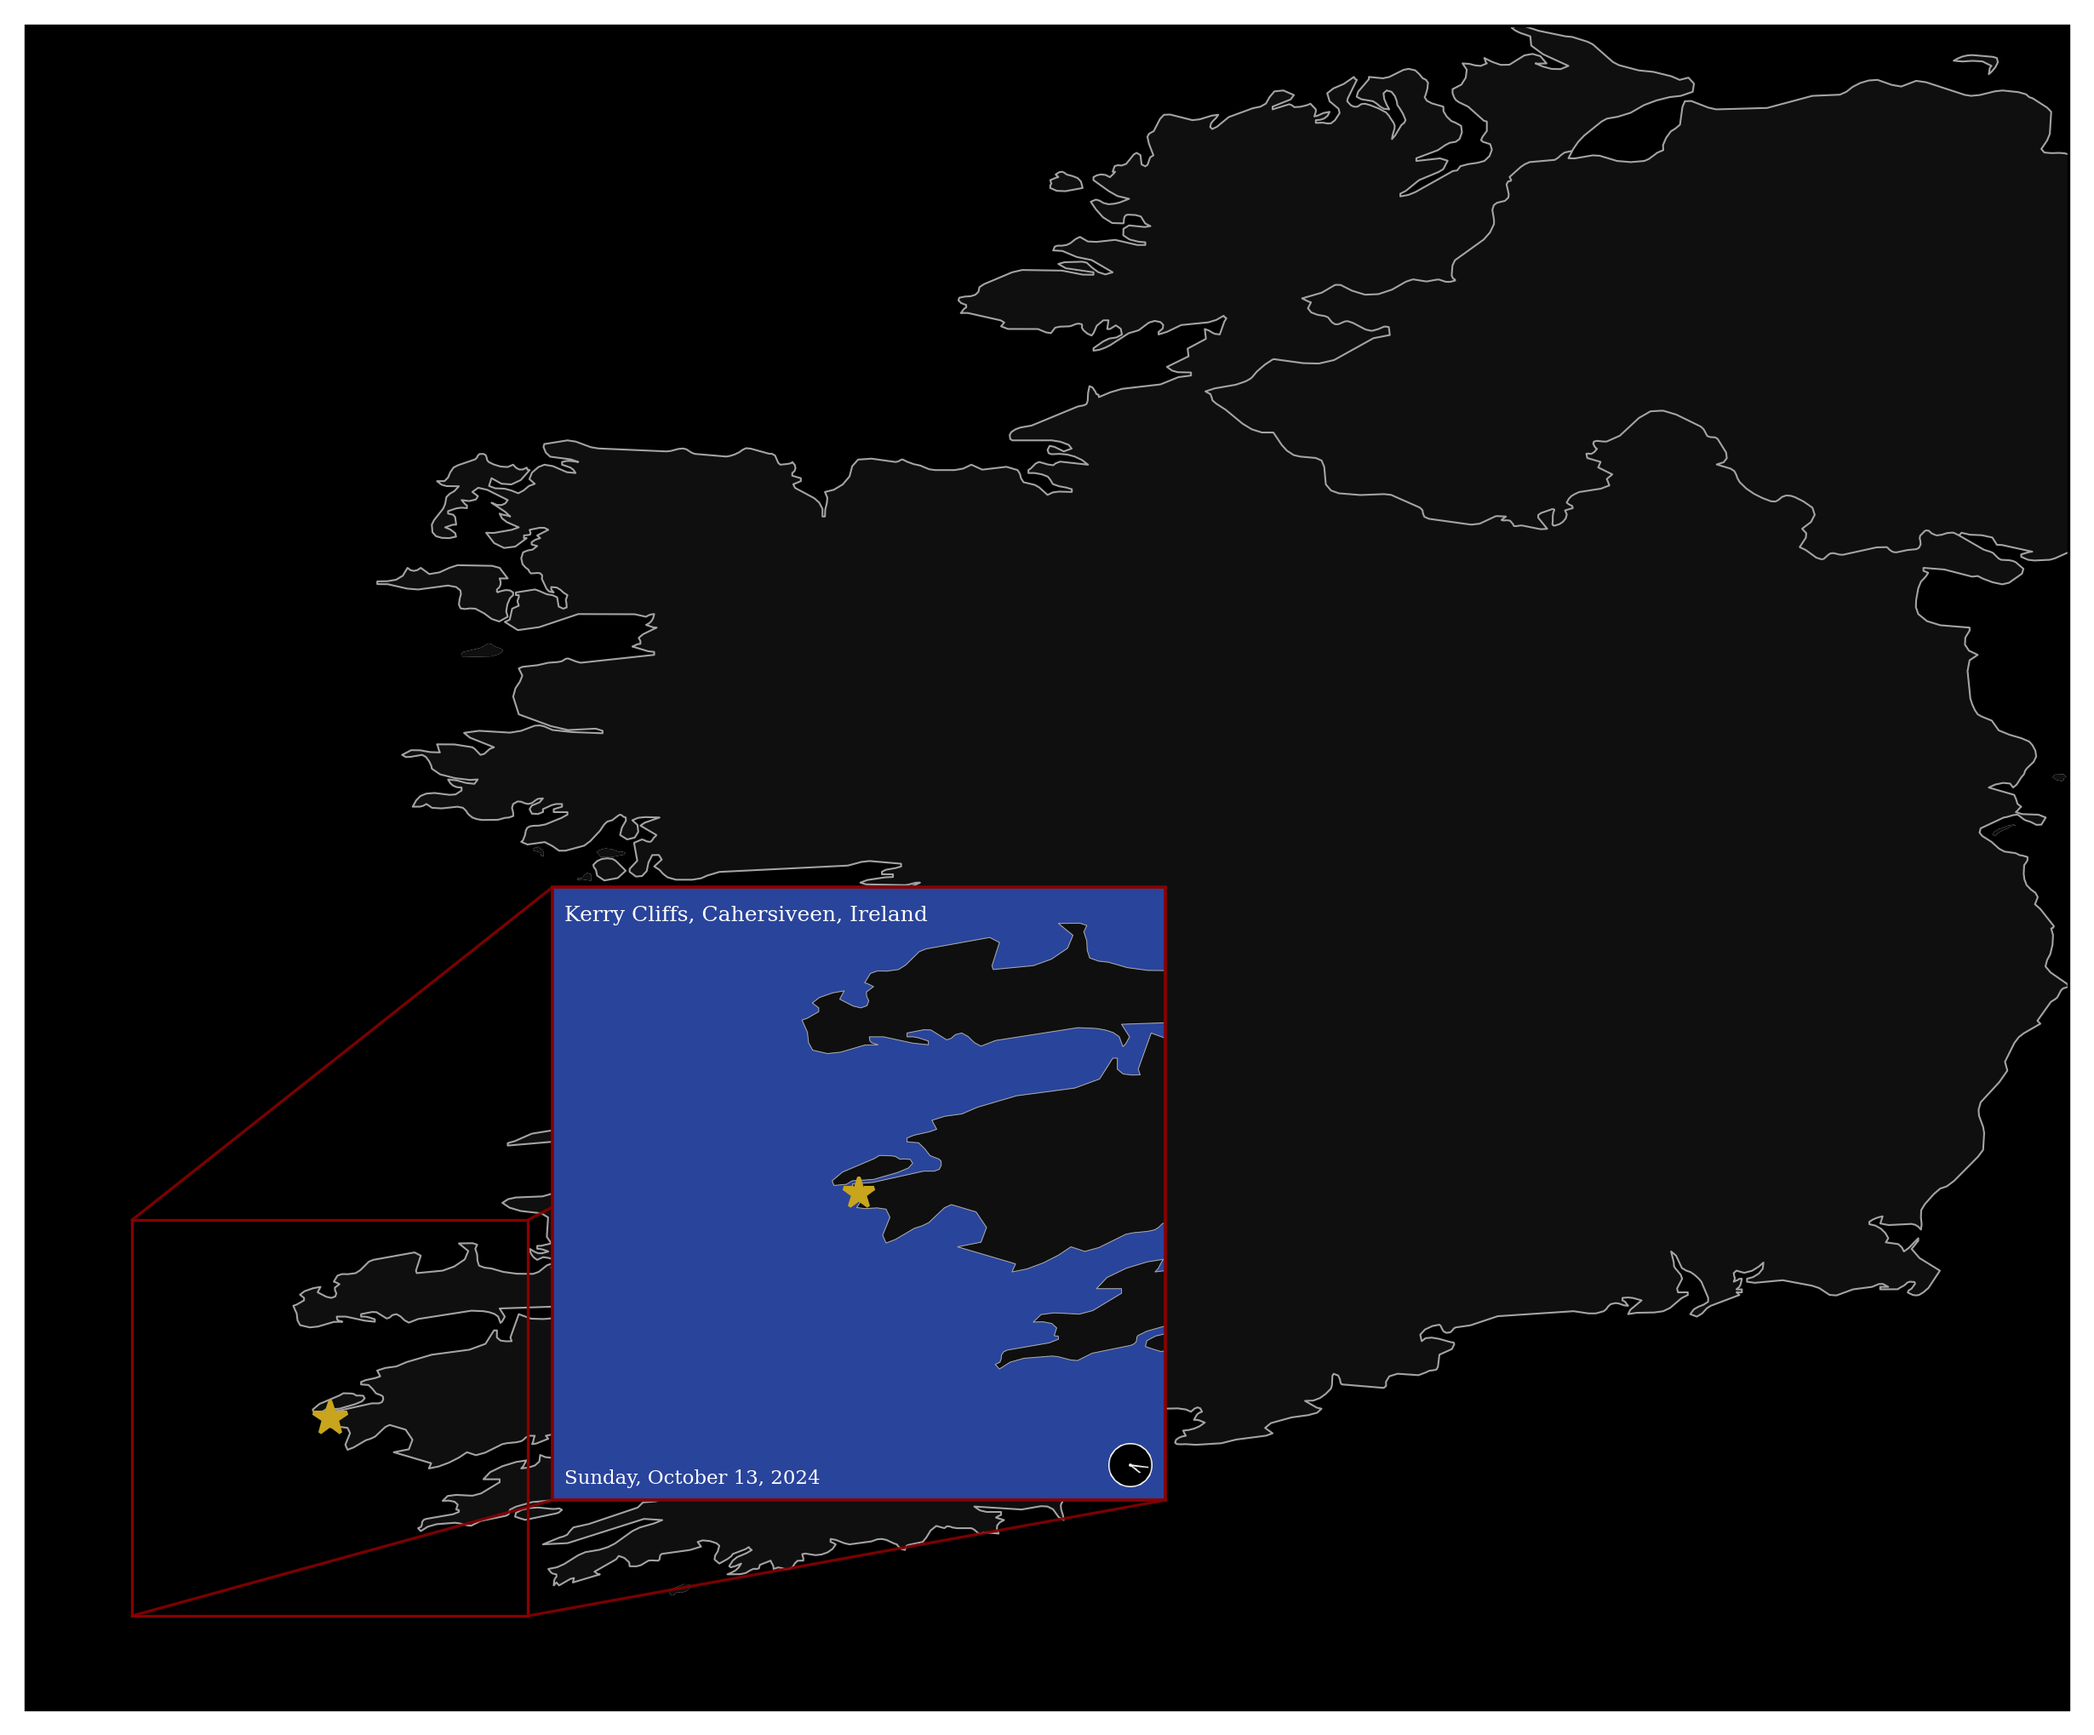
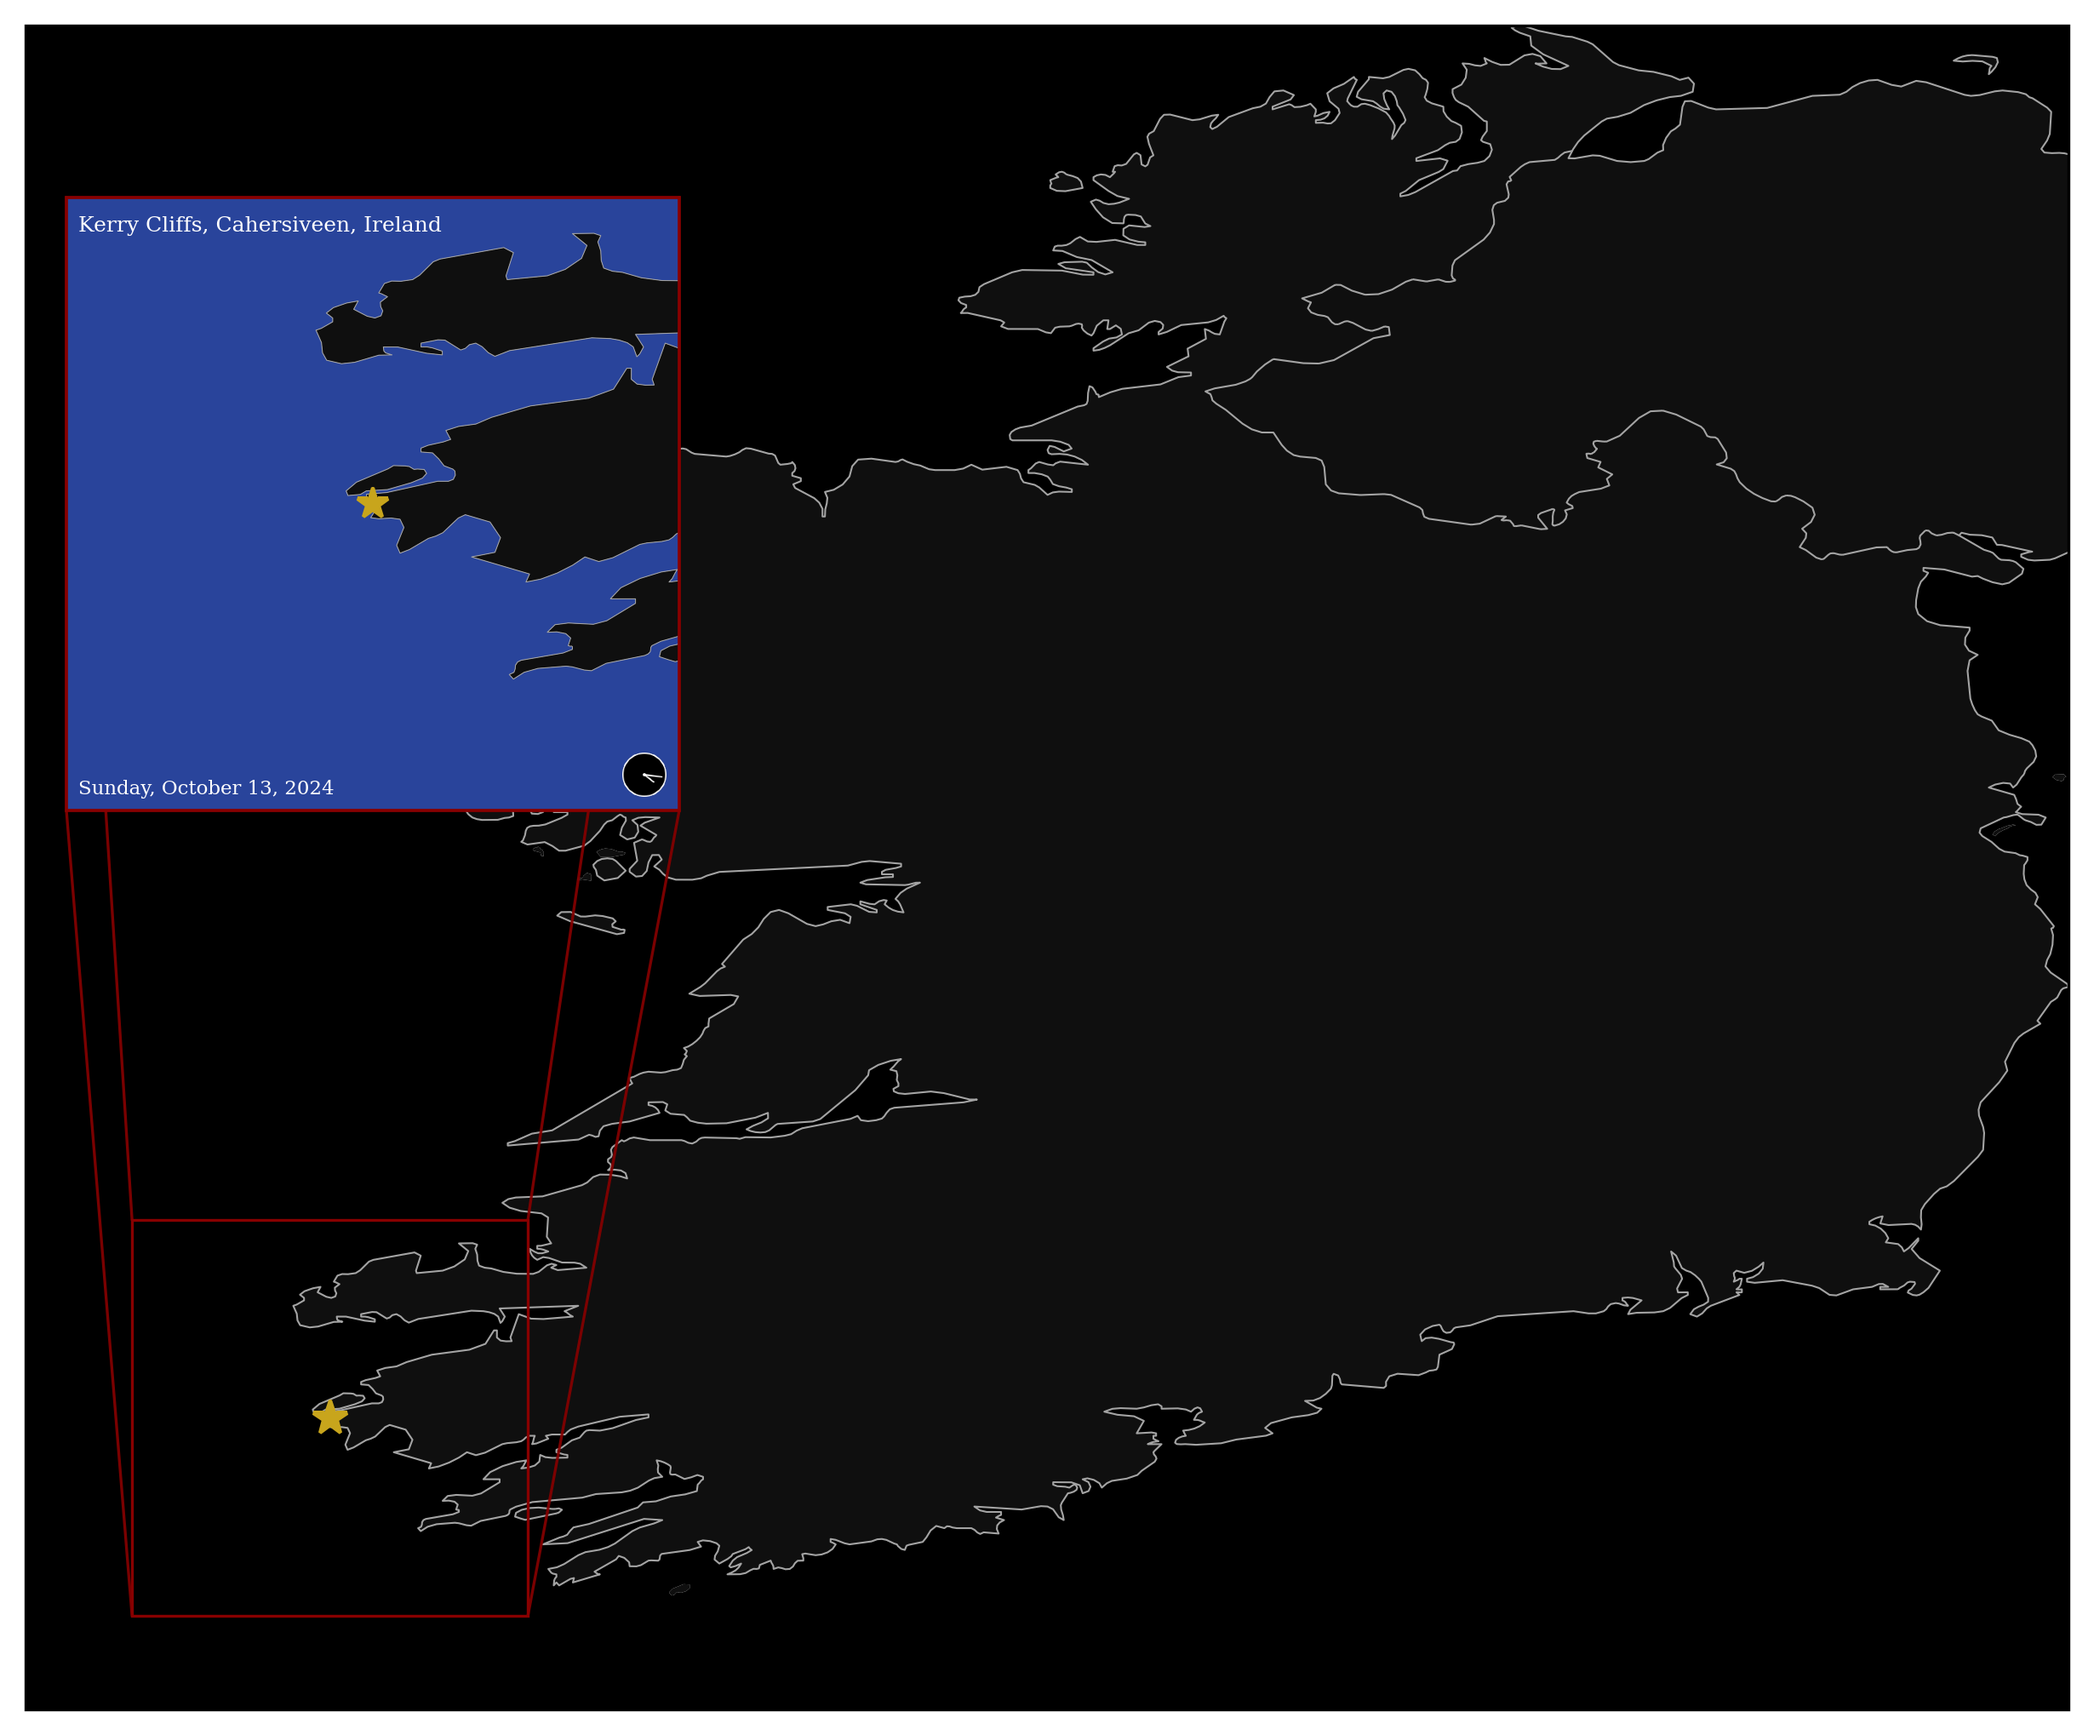
Working on new inset code

Changed region(s): [[0.0309, 0.0927, 0.5561, 0.8656]]

diff --git a/snapshot.py b/snapshot.py
@@ -259,6 +259,13 @@ def _clamp(value: float, low: float, high: float) -> float:
     return max(low, min(high, value))
 
 
+def _gap_px_to_fig(fig, gap_px: float) -> float:
+    px = max(0.0, float(gap_px))
+    width_px = max(1.0, fig.get_figwidth() * fig.dpi)
+    height_px = max(1.0, fig.get_figheight() * fig.dpi)
+    return px / min(width_px, height_px)
+
+
 def _point_in_rect(
     x: float,
     y: float,
@@ -384,6 +391,7 @@ def _pick_inset_position(
     rect_xmax: float,
     rect_ymin: float,
     rect_ymax: float,
+    min_gap_fig: float = 0.005
 ) -> tuple[float, float, float]:
     bounds_w = max(0.0, bounds_xmax - bounds_xmin)
     bounds_h = max(0.0, bounds_ymax - bounds_ymin)
@@ -397,7 +405,7 @@ def _pick_inset_position(
 
     star_pad = 0.02
     gap = max(0.002, inset_margin * 0.6)
-    min_clearance = max(gap, 0.008)
+    min_clearance = max(gap, 0.008, max(0.0, min_gap_fig))
 
     rcx = (rect_xmin + rect_xmax) * 0.5
     rcy = (rect_ymin + rect_ymax) * 0.5
@@ -526,6 +534,103 @@ def _pick_inset_position(
     return x0, y0, size
 
 
+def _pick_inset_position_corner_snap(
+    *,
+    fig,
+    ax_main,
+    star_lon: float,
+    star_lat: float,
+    inset_size: float,
+    inset_margin: float,
+    bounds_xmin: float,
+    bounds_xmax: float,
+    bounds_ymin: float,
+    bounds_ymax: float,
+    rect_xmin: float,
+    rect_xmax: float,
+    rect_ymin: float,
+    rect_ymax: float,
+    min_gap_fig: float = 0.005
+) -> tuple[float, float, float]:
+    bounds_w = max(0.0, bounds_xmax - bounds_xmin)
+    bounds_h = max(0.0, bounds_ymax - bounds_ymin)
+
+    max_size = min(bounds_w - 2.0 * inset_margin, bounds_h - 2.0 * inset_margin)
+    max_size = max(0.08, max_size)
+    size = min(inset_size, max_size)
+
+    min_clearance = max(0.0, min_gap_fig)
+
+    x_disp, y_disp = ax_main.transData.transform((star_lon, star_lat))
+    star_x, star_y = fig.transFigure.inverted().transform((x_disp, y_disp))
+
+    star_pad = 0.02
+    usable_xmin = bounds_xmin + inset_margin
+    usable_xmax = bounds_xmax - inset_margin
+    usable_ymin = bounds_ymin + inset_margin
+    usable_ymax = bounds_ymax - inset_margin
+
+    def corners(s: float) -> list[tuple[float, float]]:
+        return [
+            (usable_xmin, usable_ymin),          # bottom-left
+            (usable_xmax - s, usable_ymin),      # bottom-right
+            (usable_xmax - s, usable_ymax - s),  # top-right
+            (usable_xmin, usable_ymax - s),      # top-left
+        ]
+
+    for _ in range(14):
+        best: tuple[float, float] | None = None
+        # (distance_to_zoom_rect, -distance_to_star)
+        best_key = (float("inf"), float("inf"))
+
+        for x0, y0 in corners(size):
+            x0 = _clamp(x0, usable_xmin, usable_xmax - size)
+            y0 = _clamp(y0, usable_ymin, usable_ymax - size)
+            x1, y1 = x0 + size, y0 + size
+
+            if _rects_overlap(x0, y0, x1, y1, rect_xmin, rect_ymin, rect_xmax, rect_ymax, pad=0.0):
+                continue
+            if _point_in_rect(star_x, star_y, x0, y0, x1, y1, pad=star_pad):
+                continue
+
+            d_zoom = _rect_distance_sq(x0, y0, x1, y1, rect_xmin, rect_ymin, rect_xmax, rect_ymax)
+            if d_zoom < (min_clearance * min_clearance):
+                continue
+            cx, cy = x0 + size * 0.5, y0 + size * 0.5
+            d_star = (cx - star_x) ** 2 + (cy - star_y) ** 2
+            key = (d_zoom, -d_star)
+            if key < best_key:
+                best_key = key
+                best = (x0, y0)
+
+        if best is not None:
+            return best[0], best[1], size
+
+        size *= 0.9
+        if size < 0.08:
+            size = 0.08
+
+    fallback_best: tuple[float, float] | None = None
+    # (overlap_penalty, star_penalty, distance_to_zoom_rect)
+    fallback_key = (10**9, 10**9, float("inf"))
+    for x0, y0 in corners(size):
+        x0 = _clamp(x0, usable_xmin, usable_xmax - size)
+        y0 = _clamp(y0, usable_ymin, usable_ymax - size)
+        x1, y1 = x0 + size, y0 + size
+
+        overlap_penalty = 1 if _rects_overlap(x0, y0, x1, y1, rect_xmin, rect_ymin, rect_xmax, rect_ymax, pad=0.0) else 0
+        star_penalty = 1 if _point_in_rect(star_x, star_y, x0, y0, x1, y1, pad=star_pad) else 0
+        d_zoom = _rect_distance_sq(x0, y0, x1, y1, rect_xmin, rect_ymin, rect_xmax, rect_ymax)
+        gap_penalty = 0 if d_zoom >= (min_clearance * min_clearance) else 1
+        key = (overlap_penalty, star_penalty, gap_penalty, d_zoom)
+        if key < fallback_key:
+            fallback_key = key
+            fallback_best = (x0, y0)
+
+    assert fallback_best is not None
+    return fallback_best[0], fallback_best[1], size
+
+
 def _expand_world_for_zoom(
     world_region: Region,
     zoom_region: Region,
@@ -564,6 +669,7 @@ def render_map(
     fig_width_in: float,
     show: bool,
     clock_size_px: int,
+    inset_placement_mode: str = "smart",
 ) -> None:
     proj = ccrs.PlateCarree()
 
@@ -612,22 +718,41 @@ def render_map(
     rect_xmin, rect_xmax = min(rx0, rx1), max(rx0, rx1)
     rect_ymin, rect_ymax = min(ry0, ry1), max(ry0, ry1)
 
-    x0, y0, inset_size = _pick_inset_position(
-        fig=fig,
-        ax_main=ax_main,
-        star_lon=star_lon,
-        star_lat=star_lat,
-        inset_size=inset_size,
-        inset_margin=inset_margin,
-        bounds_xmin=map_xmin,
-        bounds_xmax=map_xmax,
-        bounds_ymin=map_ymin,
-        bounds_ymax=map_ymax,
-        rect_xmin=rect_xmin,
-        rect_xmax=rect_xmax,
-        rect_ymin=rect_ymin,
-        rect_ymax=rect_ymax,
-    )
+    mode = str(inset_placement_mode).strip().lower()
+    if mode == "corner-snap":
+        x0, y0, inset_size = _pick_inset_position_corner_snap(
+            fig=fig,
+            ax_main=ax_main,
+            star_lon=star_lon,
+            star_lat=star_lat,
+            inset_size=inset_size,
+            inset_margin=inset_margin,
+            bounds_xmin=map_xmin,
+            bounds_xmax=map_xmax,
+            bounds_ymin=map_ymin,
+            bounds_ymax=map_ymax,
+            rect_xmin=rect_xmin,
+            rect_xmax=rect_xmax,
+            rect_ymin=rect_ymin,
+            rect_ymax=rect_ymax,
+        )
+    else:
+        x0, y0, inset_size = _pick_inset_position(
+            fig=fig,
+            ax_main=ax_main,
+            star_lon=star_lon,
+            star_lat=star_lat,
+            inset_size=inset_size,
+            inset_margin=inset_margin,
+            bounds_xmin=map_xmin,
+            bounds_xmax=map_xmax,
+            bounds_ymin=map_ymin,
+            bounds_ymax=map_ymax,
+            rect_xmin=rect_xmin,
+            rect_xmax=rect_xmax,
+            rect_ymin=rect_ymin,
+            rect_ymax=rect_ymax,
+        )
 
     ax_inset = fig.add_axes([x0, y0, inset_size, inset_size], projection=proj, zorder=5)
     
@@ -763,6 +888,12 @@ def build_parser() -> argparse.ArgumentParser:
         default=None,
         help="Optional clock SVG path to render in the inset (requires cairosvg + pillow).",
     )
+    p.add_argument(
+        "--inset-placement",
+        choices=("smart", "corner-snap"),
+        default="smart",
+        help="Inset placement mode: 'smart' (default) or 'corner-snap'.",
+    )
     p.add_argument("--clock-size", type=int, default=64, help="Clock badge size in pixels.")
     p.add_argument("--out", default="locator_map_styled.png", help="Output image path.")
     p.add_argument("--dpi", type=int, default=300, help="Output DPI.")
@@ -817,6 +948,7 @@ def main(argv: list[str] | None = None) -> int:
         fig_width_in=args.fig_width,
         show=not args.no_show,
         clock_size_px=args.clock_size,
+        inset_placement_mode=args.inset_placement,
     )
     return 0
 
